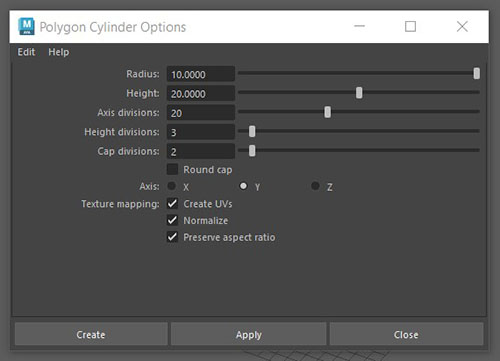
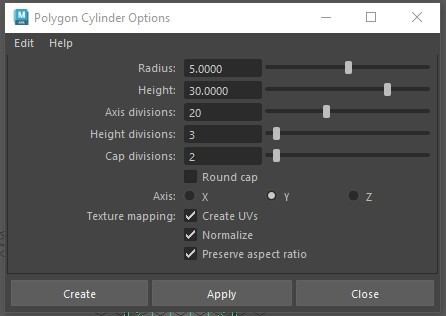
update

diff --git a/1_interface_and_modeling.html b/1_interface_and_modeling.html
@@ -11,7 +11,7 @@
     <h3>Before you start</h3>
     <p>All the machines in the lab have Maya installed, if you want you use your own machine follow the installation
         guide.</p>
-    <p><a href="https://www.uwe.ac.uk/study/it-services/software/specialist-software#autodesk_maya">Maya Instalaton
+    <p><a href="https://www.uwe.ac.uk/study/it-services/software/specialist-software#autodesk_maya">Maya Installaton
             Guide</a></p>
     <p>It is essential that you have a mouse.</p>
     <h2>1. Getting to know Maya</h2>
@@ -27,6 +27,9 @@
     </ul>
     <p><img src="images/worksheet_1/create_cube.jpg" alt="Create polygon cube button" /></p>
     <p>This will open up the polygon cube options panel.</p>
+    <p>Here you can change the properties of the cube.</p>
+    <p>The width, Height and Depth are the dimensions of the cube.</p>
+    <p>The divisions split the cube into multiple faces.</p>
     <ul>
         <li>Make sure your panel has the same options as bellow.</li>
     </ul>
@@ -36,14 +39,19 @@
     <h3>Navigate around the scene</h3>
     <ul>
         <li>Hover your mouse cursor over your cube.</li>
+    </ul>
+    <h4>Zoom</h4>
+    <ul>
         <li>The <strong>Mouse wheel</strong> zooms in and out.</li>
     </ul>
     <p><img src="images/worksheet_1/manipulate_cube_zoom.gif" alt="zoom cube" /></p>
+    <h4>Orbit</h4>
     <ul>
         <li>Hold down <strong>alt or command</strong> and <strong>left mouse button</strong> then move your mouse to
             orbit.</li>
     </ul>
     <p><img src="images/worksheet_1/manipulate_cube_rotate.gif" alt="rotate cube" /></p>
+    <h4>Pan</h4>
     <ul>
         <li>Hold <strong>alt or command</strong> and <strong>press the scroll wheel</strong> and move your mouse to pan.
         </li>
@@ -73,7 +81,7 @@
     </ul>
     <p><img src="images/worksheet_1/manipulate_cube_spin.gif" alt="rotate cube" /></p>
     <p>Avoid use the outer light blue ring as this will rotate the object relative to the camera.</p>
-    <h4>Scale</h4>
+    <h4>Scaling</h4>
     <ul>
         <li>Click on the scale button, or press <strong>r</strong> on the keyboard</li>
     </ul>
@@ -85,6 +93,30 @@
     <ul>
         <li>Use the red, green and blue squares to scale the cube in the x, y and z directions only.</li>
     </ul>
+    <h2>2. Make a Rocket</h2>
+    <h3>Units</h3>
+    <p>By default the units in Maya are set to centimetres.</p>
+    <p>A cube 1 hight is 1cm high.</p>
+    <p>As we are making a large object we want to change the units to meters.</p>
+    <ul>
+        <li>Go to <strong>Windows &gt; Settings &gt; Preferences</strong></li>
+    </ul>
+    <p><img src="images/worksheet_5/preferences.png" alt="" /></p>
+    <ul>
+        <li>
+            <p>Select <strong>Settings</strong></p>
+        </li>
+        <li>
+            <p>Change the Linear Working Unitys to <strong>meter</strong></p>
+        </li>
+    </ul>
+    <p><img src="images/worksheet_5/change_units.png" alt="" /></p>
+    <ul>
+        <li>Press <strong>Save</strong></li>
+    </ul>
+    <p>Now if we create a cube 1 height, it will be 1 meter.</p>
+    <p>This will be important when you light your scene or want to export it to another program like Unity.</p>
+    <p>Your cube may now appear very small.</p>
     <h3>Add a cylinder</h3>
     <ul>
         <li><strong>Double click</strong> on the <strong>create cylinder button</strong> to open the options panel.</li>
@@ -93,12 +125,19 @@
     <p><img src="images/worksheet_1/create_cylinder_2.jpg" alt="cylinder options" /></p>
     <ul>
         <li>
-            <p>Increase the axis divisions to 20 and make sure the rest of the numbers match mine.</p>
+            <p>Change the radius to 5 and the height to 30</p>
+        </li>
+        <li>
+            <p>Increase the axis divisions to 20</p>
         </li>
         <li>
             <p>Press <strong>Create</strong> to add the cylinder to the scene.</p>
         </li>
+        <li>
+            <p>Do you remember how to move objects? Move the cylinder up above the grid.</p>
+        </li>
     </ul>
+    <p><img src="images/worksheet_1/move_cylinder.jpg" alt="" /></p>
     <h3>Add a cone.</h3>
     <ul>
         <li>
@@ -123,21 +162,21 @@
     <p>This will open the outliner panel which shows all the object in your scene.</p>
     <p><img src="images/worksheet_1/outliner.PNG" alt="outliner panel" /></p>
     <ul>
-        <li><strong>Double click</strong> pCylinder and rename it to �body�</li>
-        <li><strong>Double click</strong> pCone and rename it to �nose cone�</li>
+        <li><strong>Double click</strong> pCylinder and rename it to "body"</li>
+        <li><strong>Double click</strong> pCone and rename it to "nose cone"</li>
     </ul>
     <h3>Saving</h3>
     <p>When using Maya save regularly to avoid loosing work.</p>
     <ul>
         <li>Choose <strong>File &gt; Save scene As..</strong></li>
-        <li>Create a folder on your network drive called �principles_of_3D�.</li>
-        <li>Save the scene �worksheet_1_rocket� and save it.</li>
+        <li>Create a folder on your network drive called "principles_of_3D".</li>
+        <li>Save the scene "worksheet_1_rocket" and save it.</li>
     </ul>
     <h3>Grouping</h3>
     <ul>
         <li>Hold down <strong>shift</strong> and <strong>click</strong> the body and nose cone in the outliner.</li>
         <li>Press <strong>ctrl or command</strong> and <strong>G</strong> to create a group.</li>
-        <li><strong>Double click</strong> the group and rename it �rocket�.</li>
+        <li><strong>Double click</strong> the group and rename it "rocket".</li>
     </ul>
     <p><img src="images/worksheet_1/rocket_outliner.PNG" alt="rename group to rocket in outliner" /></p>
     <h3>Select using the outliner</h3>
@@ -152,13 +191,10 @@
     <p><img src="images/worksheet_1/basic_rocket.PNG" alt="nose cone above cylinder body" /></p>
     <h3>Hiding using the outliner.</h3>
     <p>If can sometimes be difficult to select what you need to in your scene if an element is on top of another.</p>
+    <p>You can temporarily hide an object by selecting it and pressing <strong>h</strong>.</p>
+    <p>To show it again, select it in the outliner and press <strong>h</strong> again.</p>
     <ul>
-        <li>
-            <p>You can temporarily hide an object by selecting it and pressing <strong>h</strong>.</p>
-        </li>
-        <li>
-            <p>To show it again, select it in the outliner and press <strong>h</strong> again.</p>
-        </li>
+        <li>Try this with your nose cone.</li>
     </ul>
     <h3>Increment and save</h3>
     <ul>
@@ -213,7 +249,7 @@
         <li>We want 3 windows, to copy the first one, select it and press <strong>ctrl or command</strong> and
             <strong>d</strong>.</li>
     </ul>
-    <p>It is important that you don�t use <strong>ctrl or command</strong> and <strong>c</strong> as you normally would
+    <p>It is important that you don"t use <strong>ctrl or command</strong> and <strong>c</strong> as you normally would
         in other packages as this creates unwanted extra grouping in Maya.</p>
     <ul>
         <li>Move the new windows down to form a neat row on the rocket.</li>
@@ -230,7 +266,7 @@
         </li>
     </ul>
     <p><img src="images/worksheet_1/drag.gif" alt="" /></p>
-    <h2><strong>Final Challenge</strong> - Finish your rocket</h2>
+    <h2><strong>Challenge</strong> - Finish your rocket</h2>
     <p><img src="images/worksheet_1/rocket.png" alt="a 2d rocket" /></p>
     <p>Your Maya skills will improve the more you practice, for this challenge practice the skill you have learnt so
         far.</p>
@@ -241,7 +277,7 @@
         <li>Group them all appropriately.</li>
         <li>You should be regularly moving the camera around your object to check it looks good from all angles.</li>
         <li>Save regularly.</li>
-        <li>Keep the total triangle count to under 1500 by carefully considering the number of divisions you use when
+        <li>Keep the total triangle count to under 3000. Carefully considering the number of divisions you use when
             creating new polygons.</li>
     </ul>
     <p><img src="images/worksheet_1/finished_rocket.PNG" alt="finished rocket" /></p>
